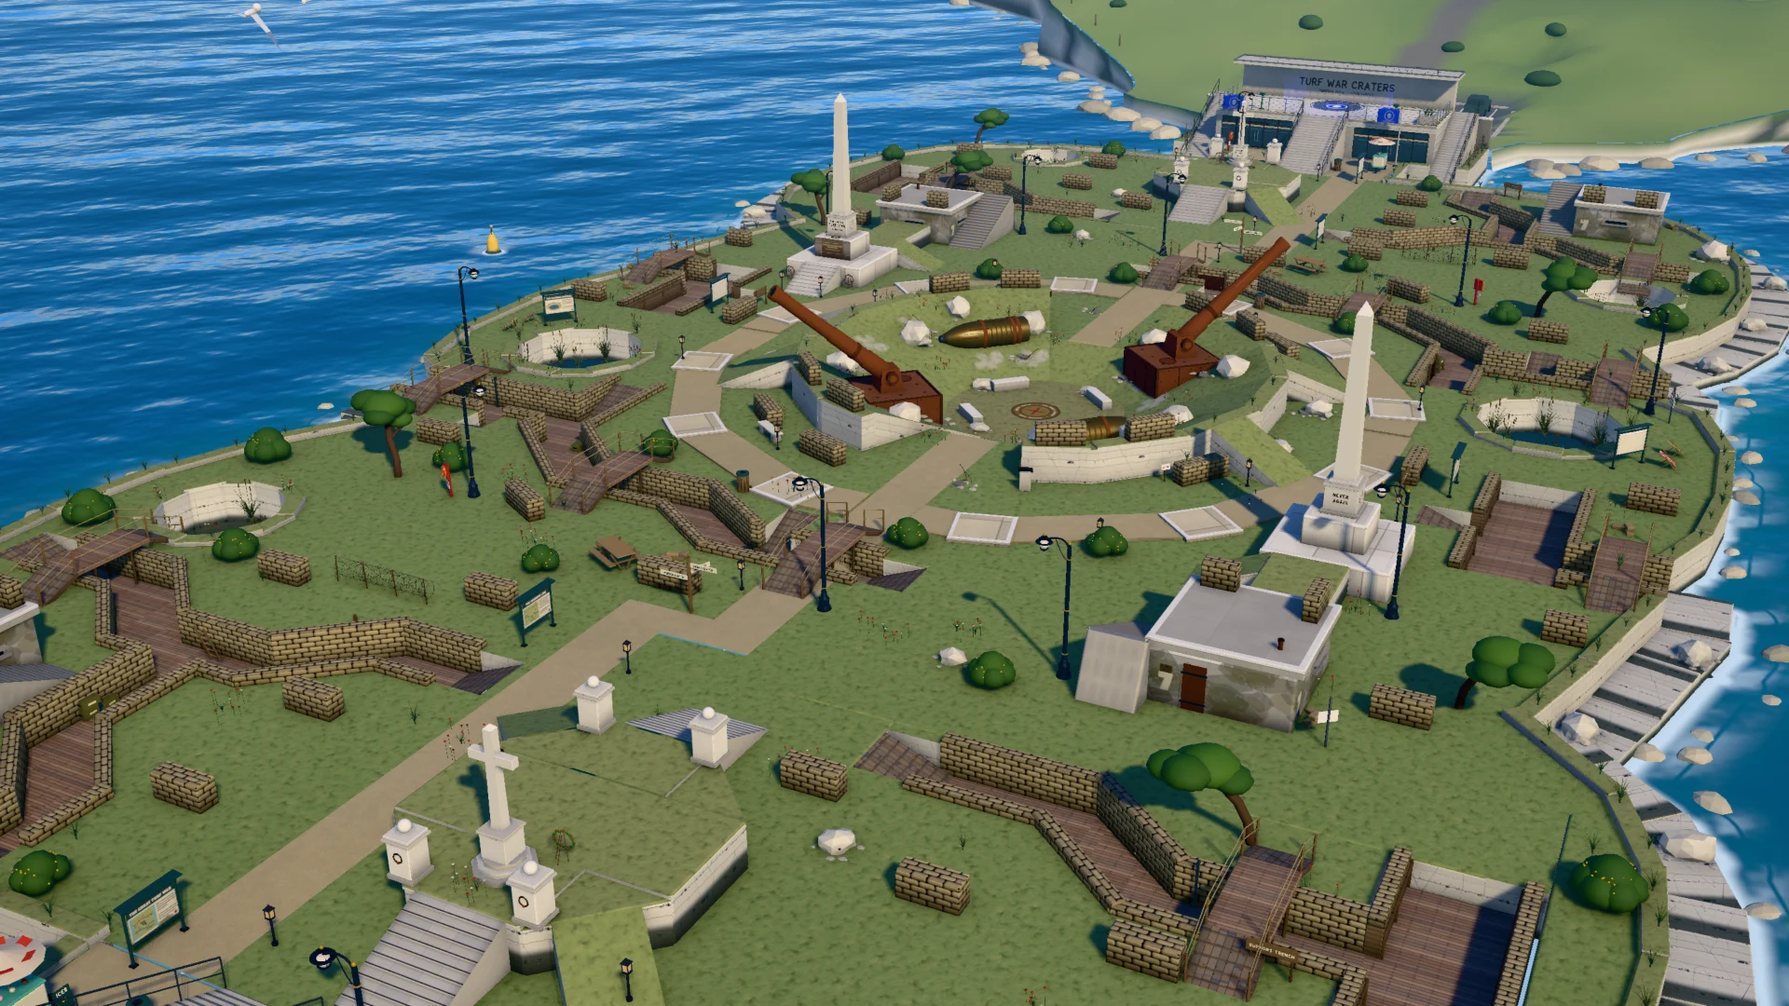
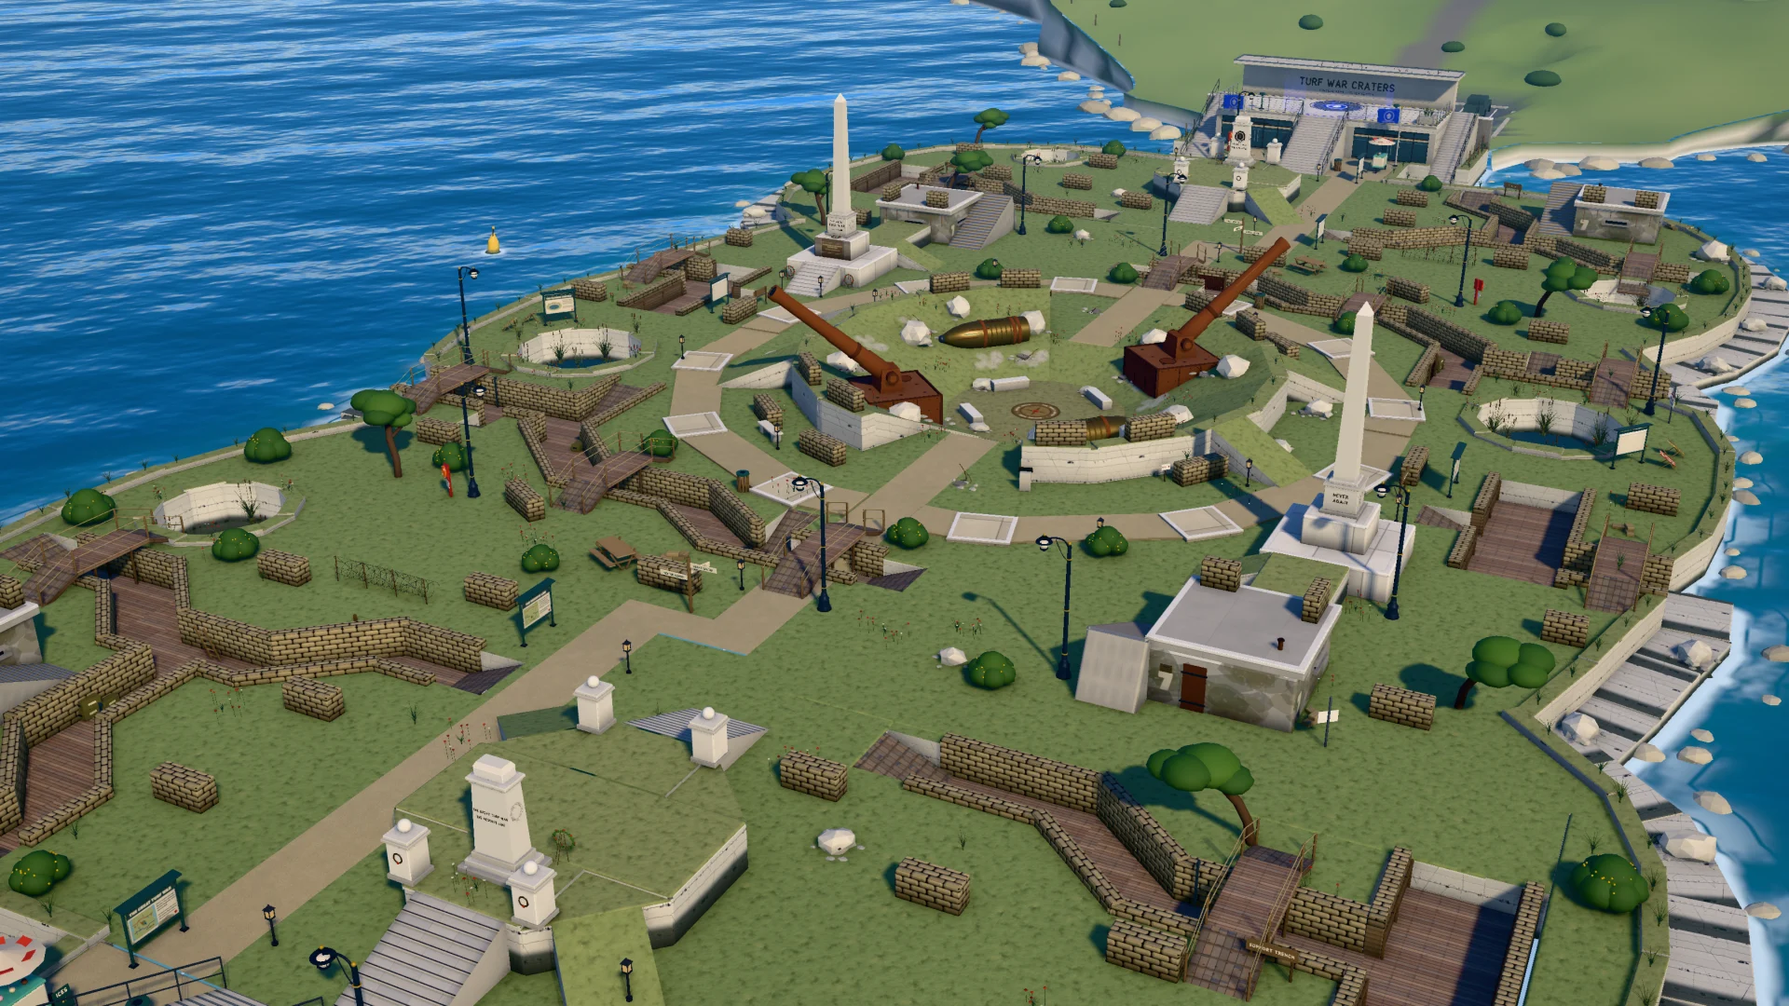
Turf War Craters: the regimental mound's cross replaced by a secular memorial — the Inkling Rifles' cenotaph (Portland steps, a battered pylon, cornice and tomb-chest; a bronze laurel wreath round the regiment's squid badge, THE INKLING RIFLES · THE LINE HELD; carved laurel wreaths on its sides, the

diff --git a/src/world/stages/craters/props.js b/src/world/stages/craters/props.js
@@ -467,34 +467,69 @@ export function register(D, H) {
       B.col(-0.42, 1.36, -0.42, 0.42, 8.4, 0.42, { roof: true });
     },
   };
-  // The Inkling Rifles' cross on the regimental mound (the Long Stages slice; pos = the mound's top at the cross's centre,
-  // local +Z = the inscription's face, toward mid): a three-step octagonal Portland base, a die with the regiment's
-  // name, a tall Latin cross with a bronze sword on its face. Solid and off limits (you slide off it).
-  D.craters_cross = {
-    desc: 'Regimental cross: octagonal steps, die, Latin cross with a bronze sword. Collider: off-limits roof.',
+  // The Inkling Rifles' cenotaph on the regimental mound (the Long Stages slice; pos = the mound's top at the cenotaph's
+  // centre, local +Z = its front, toward mid): a secular memorial — two Portland steps and a plinth course, a battered
+  // stone pylon with a band and cornice, the empty tomb-chest on top; on its front a bronze laurel wreath round the
+  // regiment's badge (a squid in a roundel), the regiment's name and THE LINE HELD; carved wreaths on the sides, the war
+  // on the back. Short and blocky: it reads apart from the crater's two tall obelisks. Solid and off limits (you slide
+  // off it).
+  const squidBadge = (B, y, z, s = 1) => {
+    // bronze roundel with a raised rim, the squid on it (mantle + fins, head with two eyes, four tentacles): the Inkling
+    // emblem — nothing on it reads as a cross
+    B.push(0, y, z);
+    B.cyl('metal', K.bronze, 0.2 * s, 0.03, 0, 0, 0.015, { rx: HP, seg: 24 });
+    B.tor('metal', K.bronzeLt, 0.2 * s, 0.014, 0, 0, 0.03, { ts: 28, rs: 5 });
+    const plate = (pts, d, c) => { const g = new GB(); g.face(pts.map(([x, yy]) => [x * s, yy * s, d]), [0, 0, 1]);
+      for (let i = 0; i < pts.length; i++) { const [x0, y0] = pts[i], [x1, y1] = pts[(i + 1) % pts.length]; g.face([[x0 * s, y0 * s, 0.03], [x1 * s, y1 * s, 0.03], [x1 * s, y1 * s, d], [x0 * s, y0 * s, d]], [y1 - y0, -(x1 - x0), 0]); }
+      B.add('metal', g.geo(), c, 0, 0, 0); };
+    plate([[0, 0.165], [0.07, 0.07], [0.055, -0.015], [-0.055, -0.015], [-0.07, 0.07]], 0.05, K.bronzeLt);        // mantle
+    plate([[0.07, 0.07], [0.115, 0.115], [0.045, 0.125]], 0.048, K.bronzeLt);                                     // fins
+    plate([[-0.045, 0.125], [-0.115, 0.115], [-0.07, 0.07]], 0.048, K.bronzeLt);
+    plate([[0.05, -0.015], [0.05, -0.07], [-0.05, -0.07], [-0.05, -0.015]], 0.05, K.bronzeLt);                    // head
+    for (const x of [-0.024, 0.024]) B.cyl(NS('paint'), K.stoneLt, 0.013 * s, 0.01, x * s, -0.042 * s, 0.055, { rx: HP, seg: 8 });
+    for (const x of [-0.036, -0.012, 0.012, 0.036]) rod(B, NS('metal'), K.bronzeLt, [x * s, -0.07 * s, 0.045], [x * 1.5 * s, -0.16 * s, 0.045], 0.009 * s, 4);
+    B.pop();
+  };
+  // a laurel wreath facing +Z (radius R): two rows of leaves along a slim ring, each leaf an almond lying along the ring
+  // and angled off it, a ribbon bow tied at the foot
+  const laurel = (B, R, c, mat, n = 24) => {
+    B.tor(mat, c, R, R * 0.045, 0, 0, 0, { ts: 28, rs: 5 });
+    for (let k = 0; k < n; k++) {
+      const a = -HP + 0.32 + ((TAU - 0.64) * (k + 0.5)) / n;
+      for (const sd of [-1, 1]) { const r = R * (1 + sd * 0.1); B.sph(NS(mat), c, 1, Math.cos(a) * r, Math.sin(a) * r, 0.012, { sx: R * 0.17, sy: R * 0.065, sz: 0.018, rz: a + HP + sd * 0.55, ws: 8, hs: 4 }); }
+    }
+    B.box(mat, c, R * 0.16, R * 0.12, 0.03, 0, -R, 0.02, { r: 0.01 });
+    for (const sd of [-1, 1]) B.box(NS(mat), c, R * 0.1, R * 0.42, 0.02, sd * R * 0.12, -R * 1.2, 0.015, { rz: sd * 0.35, r: 0.008 });
+  };
+  D.craters_cenotaph = {
+    desc: 'Regimental cenotaph: steps, battered pylon, cornice, tomb-chest; bronze wreath round the squid badge. Collider: off-limits roof.',
     build(B) {
-      const S = K.stone;
-      for (const [r, y0, y1, c] of [[0.95, 0, 0.16, K.stoneDk], [0.78, 0.16, 0.32, S], [0.62, 0.32, 0.46, K.stoneDk]]) B.cyl('paint', c, r, y1 - y0, 0, (y0 + y1) / 2, 0, { seg: 8, ry: PI / 8 });
-      B.box('paint', S, 0.86, 0.8, 0.86, 0, 0.86, 0, { r: 0.02 });
-      B.box('paint', K.stoneDk, 0.98, 0.1, 0.98, 0, 1.3, 0, { r: 0.03 });
-      B.add('paint', frustumGeo(0.36, 0.36, 0.28, 0.28, 3.1, false), S, 0, 1.35, 0);
-      B.box('paint', S, 1.5, 0.3, 0.28, 0, 3.55, 0, { r: 0.02 });
-      B.add('paint', pyramidGeo(0.29, 0.14), K.stoneLt, 0, 4.45, 0);
-      // the bronze sword down the cross's face, its hilt on the arms' crossing
-      B.push(0, 0, 0.16);
-      B.box('metal', K.bronze, 0.09, 2.3, 0.03, 0, 2.55, 0, { r: 0.01 });
-      B.box('metal', K.bronze, 0.5, 0.07, 0.035, 0, 3.72, 0.005, { r: 0.01 });
-      B.box('metal', K.bronze, 0.07, 0.34, 0.035, 0, 3.94, 0.005, { r: 0.01 });
-      B.sph('metal', K.bronzeLt, 0.055, 0, 4.14, 0.01, { ws: 8, hs: 6 });
-      B.pop();
-      B.push(0, 0, 0.432);
-      letters(B, 'THE INKLING', { h: 0.085, wt: 0.2, flat: true, y: 1.0, c: K.bronze, mat: 'metal', track: 0.14 });
-      letters(B, 'RIFLES', { h: 0.12, wt: 0.2, flat: true, y: 0.82, c: K.bronze, mat: 'metal', track: 0.16 });
-      letters(B, 'THE LINE HELD', { h: 0.06, wt: 0.22, flat: true, y: 0.62, c: K.bronze, mat: 'metal', track: 0.16 });
-      B.pop();
-      B.col(-0.95, 0, -0.95, 0.95, 0.46, 0.95, { roof: true });
-      B.col(-0.45, 0.46, -0.45, 0.45, 1.35, 0.45, { roof: true });
-      B.col(-0.2, 1.35, -0.2, 0.2, 4.6, 0.2, { roof: true });
+      const S = K.stone, y0 = 0.58, hB = 2.2;
+      B.box('paint', K.stoneDk, 2.1, 0.18, 1.5, 0, 0.09, 0, { r: 0.02 });
+      B.box('paint', S, 1.8, 0.18, 1.2, 0, 0.27, 0, { r: 0.02 });
+      B.box('paint', K.stoneDk, 1.5, 0.22, 0.95, 0, 0.47, 0, { r: 0.02 });
+      B.add('paint', frustumGeo(1.3, 0.8, 1.14, 0.66, hB, false), S, 0, y0, 0);
+      B.box('paint', K.stoneDk, 1.24, 0.1, 0.76, 0, y0 + hB + 0.05, 0, { r: 0.02 });
+      B.box('paint', S, 1.36, 0.1, 0.88, 0, y0 + hB + 0.15, 0, { r: 0.03 });
+      B.box('paint', K.stoneLt, 1.0, 0.3, 0.58, 0, y0 + hB + 0.35, 0, { r: 0.03 });
+      B.add('paint', frustumGeo(1.0, 0.58, 0.84, 0.42, 0.14), S, 0, y0 + hB + 0.5, 0);
+      // the front (the face leans back 0.07 over its height: every plate is set on it, tilted with it): the wreath round
+      // the badge, the regiment, the line held
+      const fz = (y) => 0.4 - (0.07 * (y - y0)) / hB, LEAN = -Math.atan(0.07 / hB);
+      const onFace = (ry, y, fn) => { B.push(0, 0, 0, ry); B.push(0, y, fz(y), 0, LEAN); fn(); B.pop(); B.pop(); };
+      onFace(0, 2.05, () => { laurel(B, 0.34, K.bronze, 'metal'); squidBadge(B, 0, 0.004, 1.15); });
+      onFace(0, 1.42, () => letters(B, 'THE INKLING RIFLES', { h: 0.09, wt: 0.2, flat: true, z: 0.004, c: K.bronze, mat: 'metal', track: 0.14 }));
+      onFace(0, 1.16, () => letters(B, 'THE LINE HELD', { h: 0.12, wt: 0.2, flat: true, z: 0.004, c: K.bronze, mat: 'metal', track: 0.16 }));
+      // the back: the war and the line; the sides (the face 0.65 → 0.57 out, leaning in): carved laurel wreaths
+      onFace(PI, 1.9, () => letters(B, 'THE GREAT TURF WAR', { h: 0.085, wt: 0.2, flat: true, z: 0.004, c: K.bronze, mat: 'metal', track: 0.14 }));
+      onFace(PI, 1.7, () => letters(B, 'THE RESERVE LINE', { h: 0.085, wt: 0.2, flat: true, z: 0.004, c: K.bronze, mat: 'metal', track: 0.14 }));
+      for (const sx of [-1, 1]) {
+        const y = 2.0, x = 0.65 - (0.08 * (y - y0)) / hB;
+        B.push(0, 0, 0, sx * HP); B.push(0, y, x, 0, -Math.atan(0.08 / hB)); laurel(B, 0.22, K.stoneDk, 'paint', 18); B.pop(); B.pop();
+      }
+      B.col(-1.05, 0, -0.75, 1.05, 0.36, 0.75, { roof: true });
+      B.col(-0.68, 0.36, -0.44, 0.68, y0 + hB + 0.2, 0.44, { roof: true });
+      B.col(-0.5, y0 + hB + 0.2, -0.3, 0.5, y0 + hB + 0.64, 0.3, { roof: true });
     },
   };
   // a gate pier's dressing on the regimental mound (pos = the pier's foot, local +Z = outward, down the steps): a moulded
@@ -1069,7 +1104,7 @@ const [mX, mZ] = MEMO.c;
 
 // the reserve line's dressing (Alpha's half; already in place — the tower's runs kept clear: z −30.5 and −43 across,
 // x −26.5 and 6.5 along, 2.5 m wide)
-const [crX, crZ] = MOUND.cross;
+const [crX, crZ] = MOUND.memorial;
 // the Long Stages stretch also took the whole stage's cover over 90 % (it was 79 %): gorse on the old downs where the
 // open ground ran longest, big chalk boulders on the Great Crater's slopes either side of each cut, one at the cut
 const COVER_MID = [
@@ -1083,8 +1118,8 @@ const COVER_MID = [
 ];
 const SLICE_DRESSING = [
   ...COVER_MID,
-  // the regimental mound: the cross, wreaths at its foot, a bench and a lantern below the south steps
-  { type: 'craters_cross', pos: [crX, MOUND.top, crZ], rotY: 0 },
+  // the regimental mound: the cenotaph, wreaths at its foot, a bench and a lantern below the south steps
+  { type: 'craters_cenotaph', pos: [crX, MOUND.top, crZ], rotY: 0 },
   ...MOUND_PIERS.map(([x, z, sg]) => ({ type: 'craters_pier', pos: [x, MOUND.top, z], rotY: sg > 0 ? 0 : Math.PI })),
   { type: 'craters_wreath', pos: [crX - 1.2, MOUND.top, crZ + 1.05], rotY: 0.12 },
   { type: 'craters_wreath', pos: [crX + 1.15, MOUND.top, crZ + 1.05], rotY: -0.1, variant: 1, r: 0.26 },

diff --git a/src/world/stages/craters/murals.js b/src/world/stages/craters/murals.js
@@ -109,7 +109,7 @@ export function drawMurals(g, R, kit) {
   {
     const r = { x: R.x, y: R.y + 548, w: 480, h: 300 };
     panel(g, r, 'THE RESERVE LINE', kit);
-    // plan: the front trench (red), the support trench behind it, the communication trenches back, the mound + cross
+    // plan: the front trench (red), the support trench behind it, the communication trenches back, the mound + cenotaph
     const m = { x: r.x + 18, y: r.y + 76, w: 250, h: 200 };
     g.fillStyle = '#b9c08e'; g.fillRect(m.x, m.y, m.w, m.h);
     g.fillStyle = '#8e9468'; for (let k = 0; k < 10; k++) { g.beginPath(); g.arc(m.x + 16 + rand() * 218, m.y + 14 + rand() * 172, 3 + rand() * 5, 0, Math.PI * 2); g.fill(); }
@@ -118,7 +118,7 @@ export function drawMurals(g, R, kit) {
     zigzag(g, [[m.x + 150, m.y + 110], [m.x + 172, m.y + 110], [m.x + 184, m.y + 122], [m.x + 240, m.y + 122]], '#5a4a38', 6);
     zigzag(g, [[m.x + 196, m.y + 124], [m.x + 196, m.y + 150], [m.x + 184, m.y + 164], [m.x + 184, m.y + 188]], '#5a4a38', 4);
     g.fillStyle = '#9aa66e'; g.beginPath(); g.arc(m.x + 125, m.y + 140, 20, 0, Math.PI * 2); g.fill();
-    g.fillStyle = INK; g.fillRect(m.x + 123, m.y + 128, 4, 22); g.fillRect(m.x + 117, m.y + 134, 16, 4);
+    g.fillStyle = INK; g.fillRect(m.x + 118, m.y + 134, 14, 14); g.fillRect(m.x + 120, m.y + 129, 10, 5); g.fillRect(m.x + 115, m.y + 147, 20, 3);   // (the cenotaph)
     text(g, 'FRONT', m.x + 206, m.y + 14, 11, FT, '#b3452e'); text(g, 'SUPPORT', m.x + 40, m.y + 88, 11, FT, '#5a4a38');
     text(g, 'YOU ARE HERE', m.x + 130, m.y + 178, 11, FT, INK); g.fillStyle = '#c0392b'; g.beginPath(); g.arc(m.x + 150, m.y + 160, 5, 0, Math.PI * 2); g.fill();
     lines(g, ['Behind the fire trench', 'ran the support line,', 'and behind that the', 'reserves. Winding saps', 'brought them up unseen.', '', 'The Inkling Rifles held', 'this line all winter.'], r.x + 282, r.y + 92, 15, 21, FT, INK, 190);

diff --git a/src/world/stages/craters/layout.js b/src/world/stages/craters/layout.js
@@ -28,7 +28,7 @@ import { SLICE, SLICE_PIECES, SLICE_STANDING, SLICE_TRENCH_PIECES, inSliceHole, 
 // 1.7 crater crest · 2.4 pillbox roof + plinth top · 3.0 spawn deck.
 // The Long Stages stretch (2026-09-30, stretch.js + slice.js): the promontory with its neck and coves moved out 22 m
 // (the cut z −28.5 on Alpha's), and the slice between is the reserve line — the support trench with the tower's bay,
-// the communication trench back to the neck, the observation post, the regimental mound with its cross (the strategic
+// the communication trench back to the neck, the observation post, the regimental mound with its cenotaph (the strategic
 // point), two more flooded shell holes; the park's circle becomes a stadium (COAST). The numbers below are the drawing
 // before the stretch: the base's constants go through sz() (beyond the cut: moved out).
 // ------------------------------------------------------------------------------------------------------------
@@ -368,7 +368,7 @@ const ZONES = {
 // — the user's drawing, to 28.5 before the stretch. Then the slice's detour loop (two checkpoints: the track 80 of the
 // 100 points, twice the first drawing's length): out along the reserve line's front to the right-flank cliff, down the
 // support trench's bay (a drop in at its open north end, a climb out of its south end), back across the reserve line
-// over the regimental mound (a climb onto it, checkpoint 2 on its top by the cross, a drop off it), on to the goal in
+// over the regimental mound (a climb onto it, checkpoint 2 on its top by the cenotaph, a drop off it), on to the goal in
 // front of the neck (13 m short of Bravo's pad)
 const TOWER = {
   path: [[0, 0], [24.5, 0], [24.5, 19.75], [5, 19.75], [5, 28.5], ...SLICE_TOWER.path.map(([x, z]) => [-x, -z])],

diff --git a/src/world/stages/craters/slice.js b/src/world/stages/craters/slice.js
@@ -11,7 +11,7 @@
 //   • the observation post: a concrete bunker behind the left support trench, its roof (2.4) reached by a stair at its
 //     side — high ground over the left flank
 //   • the regimental mound (the strategic point): a turf octagon (1.6) on the reserve line's axis with the Inkling
-//     Rifles' cross on its top; four ways up (the north steps, the south steps onto the neck's forecourt, ramps on its
+//     Rifles' cenotaph on its top; four ways up (the north steps, the south steps onto the neck's forecourt, ramps on its
 //     north-east and south-west shoulders); the tower climbs its west face, stops on its top (checkpoint 2) and drops off
 //     its east face
 //   • two more flooded shell holes (the right flank's route bends round one, the left cliff walk's round the other)
@@ -90,9 +90,9 @@ const bridgePieces = SLICE_BRIDGES.flatMap(({ x, z, half }) => [
 ]);
 
 // ------------------------------------------------------------------------------------------------ the regimental mound
-// a turf octagon (1.6) with the Inkling Rifles' cross on its top (props.js); the north steps toward mid, the south steps
+// a turf octagon (1.6) with the Inkling Rifles' cenotaph on its top (props.js); the north steps toward mid, the south steps
 // onto the neck's forecourt, turf ramps up its north-east and south-west shoulders
-export const MOUND = { c: [-3, -43], R: 5.2, top: YM, cross: [-3, -45.9] };
+export const MOUND = { c: [-3, -43], R: 5.2, top: YM, memorial: [-3, -45.9] };
 const [mcx, mcz] = MOUND.c, MA = MOUND.R * Math.cos(Math.PI / 8);
 export const MOUND_PIERS = [-1, 1].flatMap((sg) => [-1, 1].map((sx) => [mcx + sx * 2.1, r3(mcz + sg * (MA - 0.5)), sg]));
 const moundPieces = [

diff --git a/tools/botlab/jobs/stretch/out/craters/routes.js b/tools/botlab/jobs/stretch/out/craters/routes.js
@@ -9,7 +9,7 @@
   const MID = [0, -1.3, 0], GOAL = [3.5, 0, -51], CP = [-3, 1.6, -43];
   const routes = {
     'the central path (the crater cut, the zig-zag bridge, the path past the mound)': [[0, -0.5, -9], [0, 0.7, -22.1], [3.7, 0, -31], [3.7, 0, -45]],
-    'over the mound (its north steps, the top by the cross, the south steps)': [[0, -0.5, -9], [0, 0.7, -22.1], [-3, 0, -33.5], [-3, 1.6, -41], [-3, 0, -50.8]],
+    'over the mound (its north steps, the top by the cenotaph, the south steps)': [[0, -0.5, -9], [0, 0.7, -22.1], [-3, 0, -33.5], [-3, 1.6, -41], [-3, 0, -50.8]],
     'right flank (the ring, past the pillbox, down the support trench bay)': [[-8, 0.1, -14.5], [-22, 0, -24], [-26.5, -1, -36], [-22, 0, -44.5], [-8.6, 0, -50]],
     'left flank (the pond rim, the cliff walk, the bridge, the communication trench)': [[14, 0.1, -9], [26, 0, -18], [25.3, 0.7, -35.5], [16.75, -1, -43], [13.25, -1, -48.5]],
   };

diff --git a/tools/botlab/jobs/stretch/craters.md b/tools/botlab/jobs/stretch/craters.md
@@ -38,17 +38,21 @@ The Great Turf War's second line, kept like the first.
 - **The observation post**: a concrete bunker behind the left support trench (camouflage, slits, sandbagged roof at
   2.4, reached by a stair up its side against the communication trench's wall) — high ground over the left flank.
 - **The regimental mound — the strategic point.** A turf octagon (1.6) on the reserve line's axis with **the Inkling
-  Rifles' cross** on its top (three-step base, bronze sword, "THE LINE HELD"), wreaths and poppies, stone gate piers
-  with ball finials at the heads of its steps. Four ways up: the north steps (toward mid), the south steps (onto the
-  neck's forecourt), turf ramps up its north-east and south-west shoulders. The tower climbs its west face, stops on
-  its top (checkpoint 2) and drops off its east face.
+  Rifles' cenotaph** on its top: a short, blocky Portland memorial (two steps, a battered pylon, a cornice, the empty
+  tomb-chest on top, 3.4 m) with a bronze laurel wreath round the regiment's badge (a squid in a roundel), "THE INKLING
+  RIFLES · THE LINE HELD" on its front, carved laurel wreaths on its sides, "THE GREAT TURF WAR · THE RESERVE LINE" on
+  its back; wreaths and poppies at its foot, stone gate piers with ball finials at the heads of its steps. Secular (no
+  religious symbols on INKWAVE's stages — the lead's call; it replaced a cross), and it reads apart from the crater's two
+  tall obelisks. Four ways up: the north steps (toward mid), the south steps (onto the neck's forecourt), turf ramps up
+  its north-east and south-west shoulders. The tower climbs its west face, stops on its top (checkpoint 2) and drops off
+  its east face.
 - **Two flooded shell holes** (the right flank's route bends round one, the left cliff walk's round the other), reeds,
   lilies, poppies.
 - The central **hoggin path** from the neck's forecourt past the mound's east face back onto the old path's line;
-  **a RESERVE LINE board** (mural 11: a plan of the support line, the saps and the mound), lanterns, a bench, gorse,
+  **a RESERVE LINE board** (mural 11: a plan of the support line, the saps and the mound with the cenotaph), lanterns, a bench, gorse,
   a hawthorn, chalk boulders, sandbag emplacements, barbed wire in front of the left support trench.
 - Heights: −1.0 trenches · 0 downs · 0.5–0.7 plank bridges · 1.6 the mound (+ gate piers) · 2.4 the observation post's
-  roof · off limits: the cross, the piers' caps.
+  roof · off limits: the cenotaph, the piers' caps.
 
 ### Routes through the slice (Alpha's half)
 
@@ -76,7 +80,7 @@ observation post's). **79.2 → 92.1 %.**
 - **Tower Command** (two checkpoints): 79.2 → **159.4 m** (target 158.4 ± 4 %: +0.6 %). The user's drawing is kept to
   its old goal in front of the neck (z 28.5); from there the loop: out along the reserve line's front to the right-flank
   cliff, down the support trench's bay (a drop in, a climb out), back east across the reserve line over the regimental
-  mound (**checkpoint 2 on its top by the cross**), on to the goal in front of the neck (13.7 m short of the pad).
+  mound (**checkpoint 2 on its top by the cenotaph**), on to the goal in front of the neck (13.7 m short of the pad).
   Checkpoint 1 stays by the fire trench.
 - **Boss Battle**: works — home ground 1866 m² (the whole stadium's downs), never idle more than 8 s, every move played.
   The check's "roams ≥ 50 m" bar (last round's) now reads 19–49 m over five runs; the same check on the pre-stretch
@@ -87,20 +91,20 @@ observation post's). **79.2 → 92.1 %.**
 
 - **Checkpoint in the slice: the regimental mound's top, (−3, −43, 1.6).** On the axis between the Great Crater and the
   pavilion; the centre path runs past its east face, the support trench's two zig-zags end at its shoulders, the
-  observation post and the pavilion's deck both see it. Four ways up, cover on it (the cross, the gate piers) and round
+  observation post and the pavilion's deck both see it. Four ways up, cover on it (the cenotaph, the gate piers) and round
   it (emplacements, the zig-zags' parapets).
 - **Goal in front of the spawn: the neck's forecourt, (3.5, −51, 0)** — a level below the pavilion's deck (3.0), in
   front of its steps, seen from the whole deck edge. Reached by the centre path, the mound's south steps, the
   communication trench's stair and the right flank past the shell hole.
 - **Routes mid → goal** (nav, metres, each forced through its waypoints; `out/craters/routes.js`):
   - the central path (the crater's cut, the zig-zag's bridge, the path past the mound): **60.4**
-  - over the mound (its north steps, the top by the cross, the south steps): **70.2**
+  - over the mound (its north steps, the top by the cenotaph, the south steps): **70.2**
   - the right flank (the ring, past the pillbox, down the support trench's bay, round the shell hole): **104.8**
   - the left flank (the pond's rim, the cliff walk, the bridge, the communication trench): **111.9**
   - the shortest nav path mid → goal is 57.5; mid → the checkpoint on the mound 46.5.
 - **High ground a carrier could hide on:** the observation post's roof (2.4, a stair) and the pillbox's (2.4) are
   reachable, sandbagged and in view of the ground round them and of the pavilion — no hiding place (a "no carrier" rule
-  for bunker roofs could come later if Bazookarp testing says so). The cross and the pier caps are off limits.
+  for bunker roofs could come later if Bazookarp testing says so). The cenotaph and the pier caps are off limits.
 
 ## Numbers (before = `new-stages` 0cd3945 as measured today; after = this branch)
 
@@ -137,3 +141,13 @@ reserve line), `slice-from-mid.jpg`, `slice-from-spawn.jpg`, `slice-west.jpg` (t
 (the left support trench, the communication trench, the observation post), `strategic-point.jpg` (from the mound's top
 toward mid), `mound.jpg`, `spawn-play.jpg` / `spawn-play-dusk.jpg`, `cover-before.jpg` / `cover-after.jpg`. Stage art:
 `assets/stages/craters-{day,dusk}{,-sm}.webp` from the reframed `art` camera.
+
+## Revision (the lead's review): the cenotaph
+
+The mound's centrepiece was a Latin cross; INKWAVE keeps religious symbols off its stages, so it is now the Inkling
+Rifles' cenotaph (above; `props.js` `craters_cenotaph`), and the RESERVE LINE board's plan marks it with a cenotaph
+glyph. Same spot on the mound (−3, −45.9), footprint 2.1 × 1.5 (was 1.9 × 1.9), 3.4 m tall (was 4.6), off limits; the
+gate piers and the four ways up unchanged. Checked after: check-maps ok; the craters lightmap rebaked (1124 rows;
+Tower Command uses the same bake, the stage has no `craters.tower`); tower-len 159.4 m, checkpoints at 34.3 / 142.3 m,
+100 s to the goal; tower-check 0 holes, clearance clean; a 180 s turf match 0.0 % stuck (longest 0.25 s); the
+pictures `strategic-point.jpg`, `mound.jpg`, `slice-from-spawn.jpg` and the stage art (day + dusk) re-shot.
